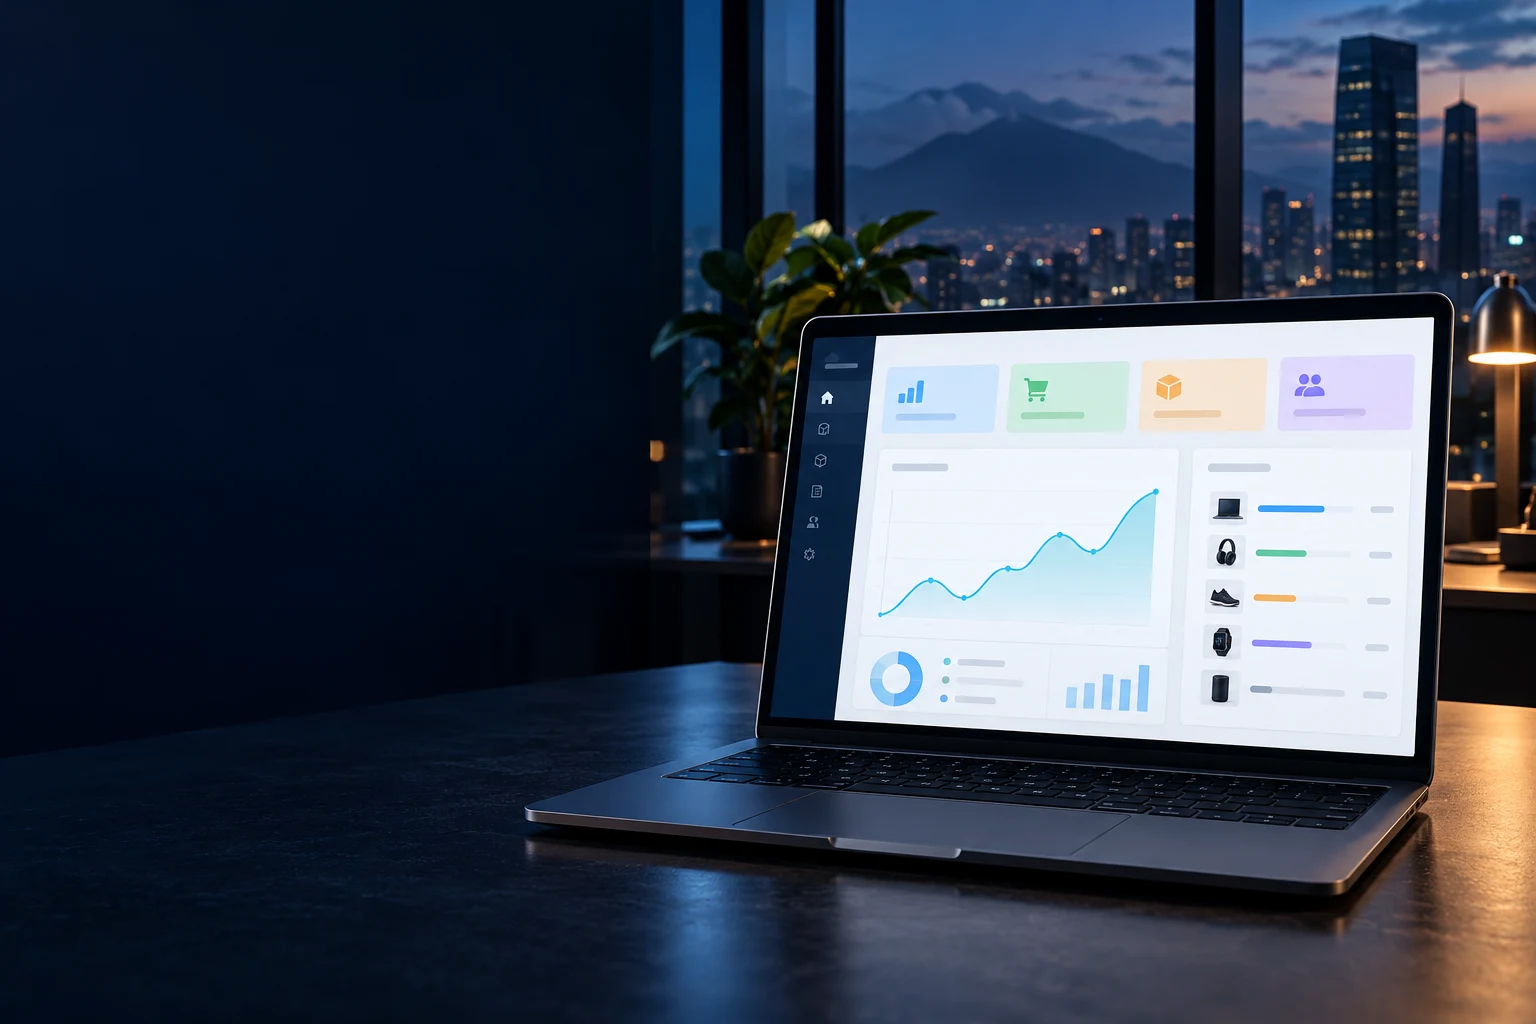
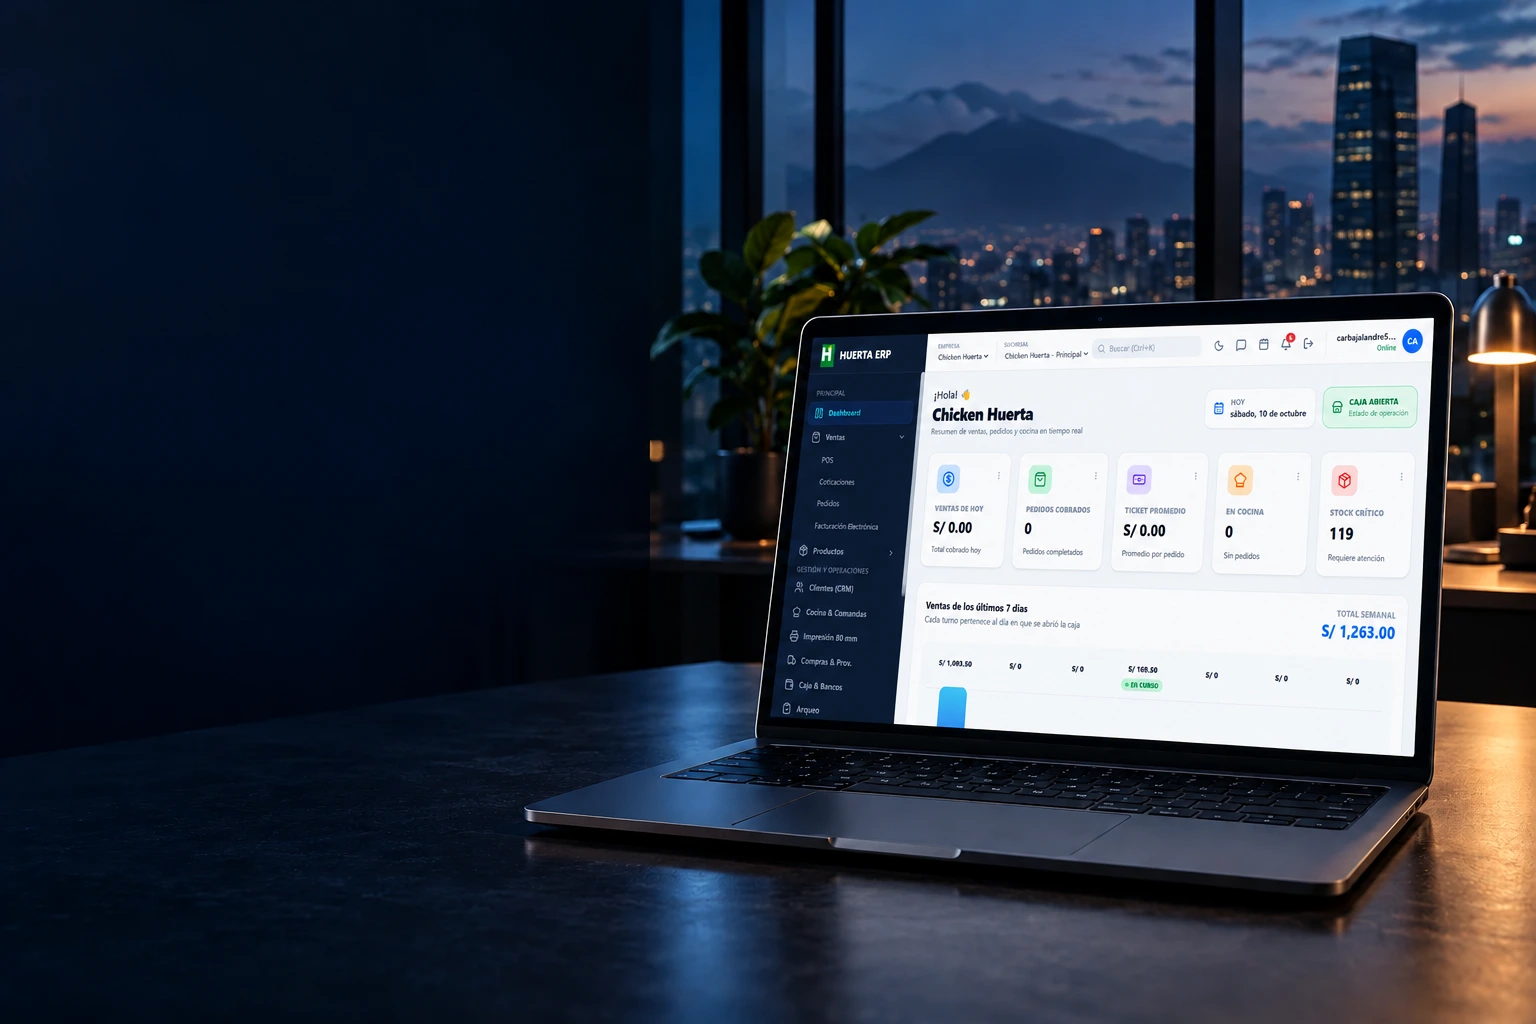
Muestra dashboard de Huerta ERP en la laptop de portada

Changed region(s): [[0.5, 0.3125, 0.9688, 0.7188], [0.6875, 0.6562, 0.75, 0.7188]]

diff --git a/index.html b/index.html
@@ -36,7 +36,7 @@
 
   <main>
     <section class="hero-section" id="inicio" aria-labelledby="hero-title">
-      <div class="hero-scene" aria-hidden="true"><img src="./assets/hero-office.webp" alt="" fetchpriority="high" width="1536" height="1024"></div>
+      <div class="hero-scene" aria-hidden="true"><img src="./assets/hero-office.webp?v=huerta-erp-20261010" alt="" fetchpriority="high" width="1536" height="1024"></div>
       <div class="hero-shade" aria-hidden="true"></div>
       <canvas class="tech-particles" aria-hidden="true"></canvas>
       <div class="hero-container">
